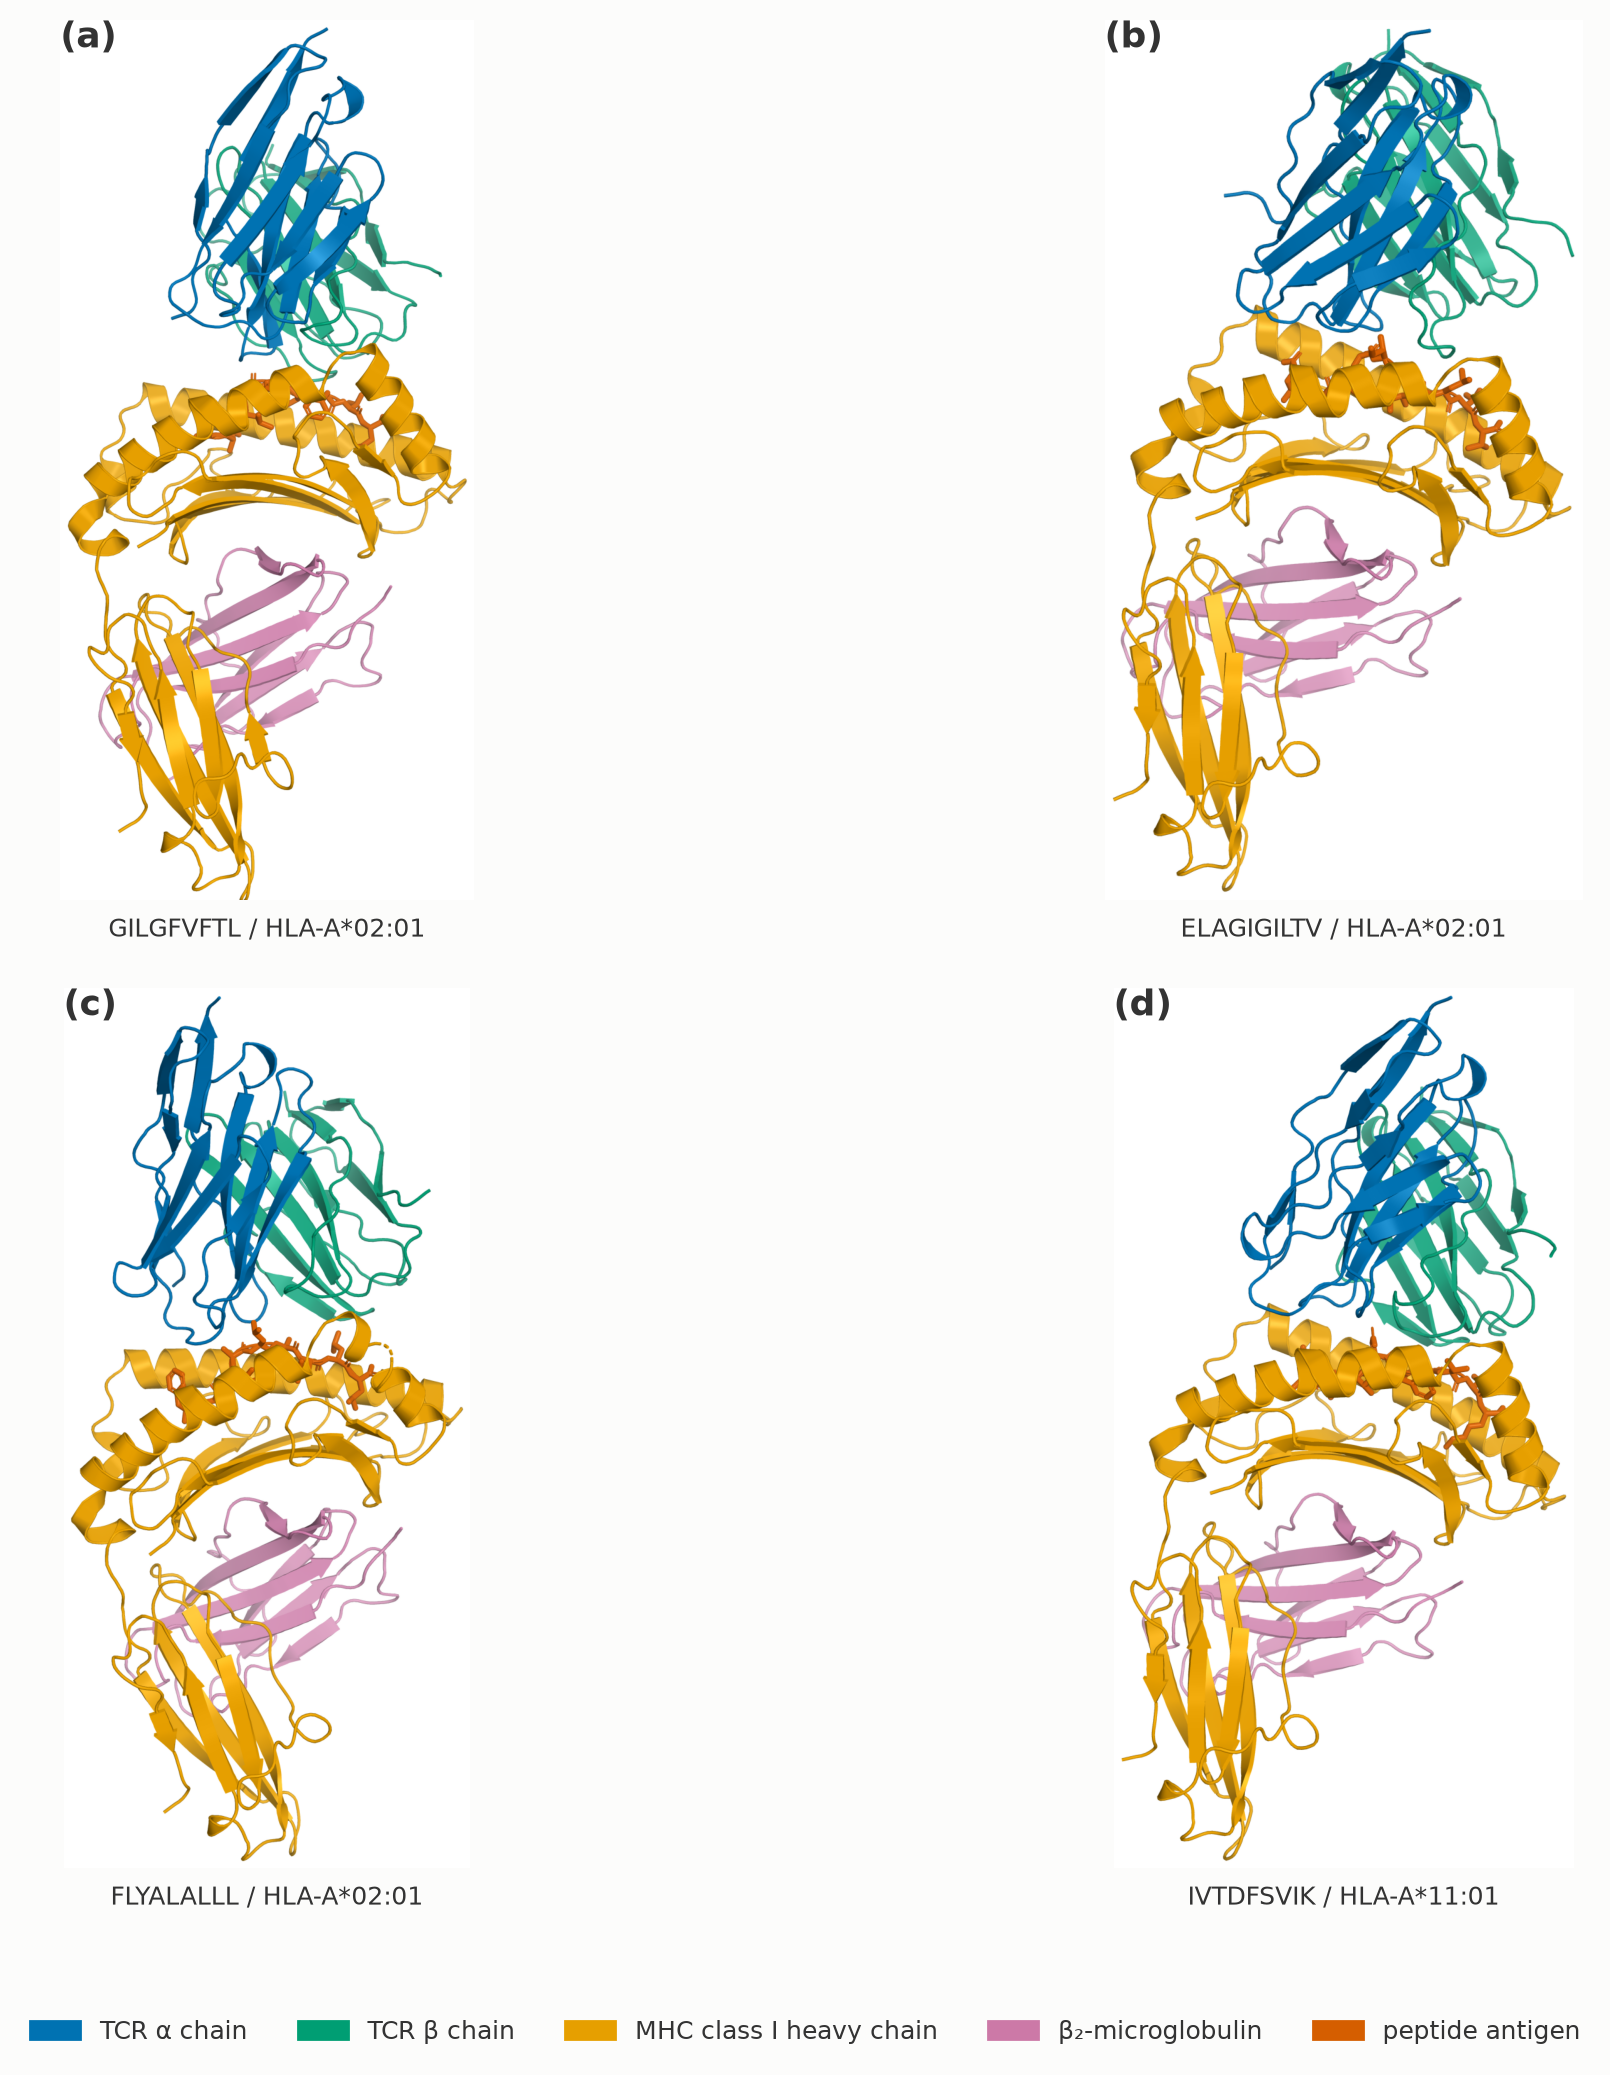
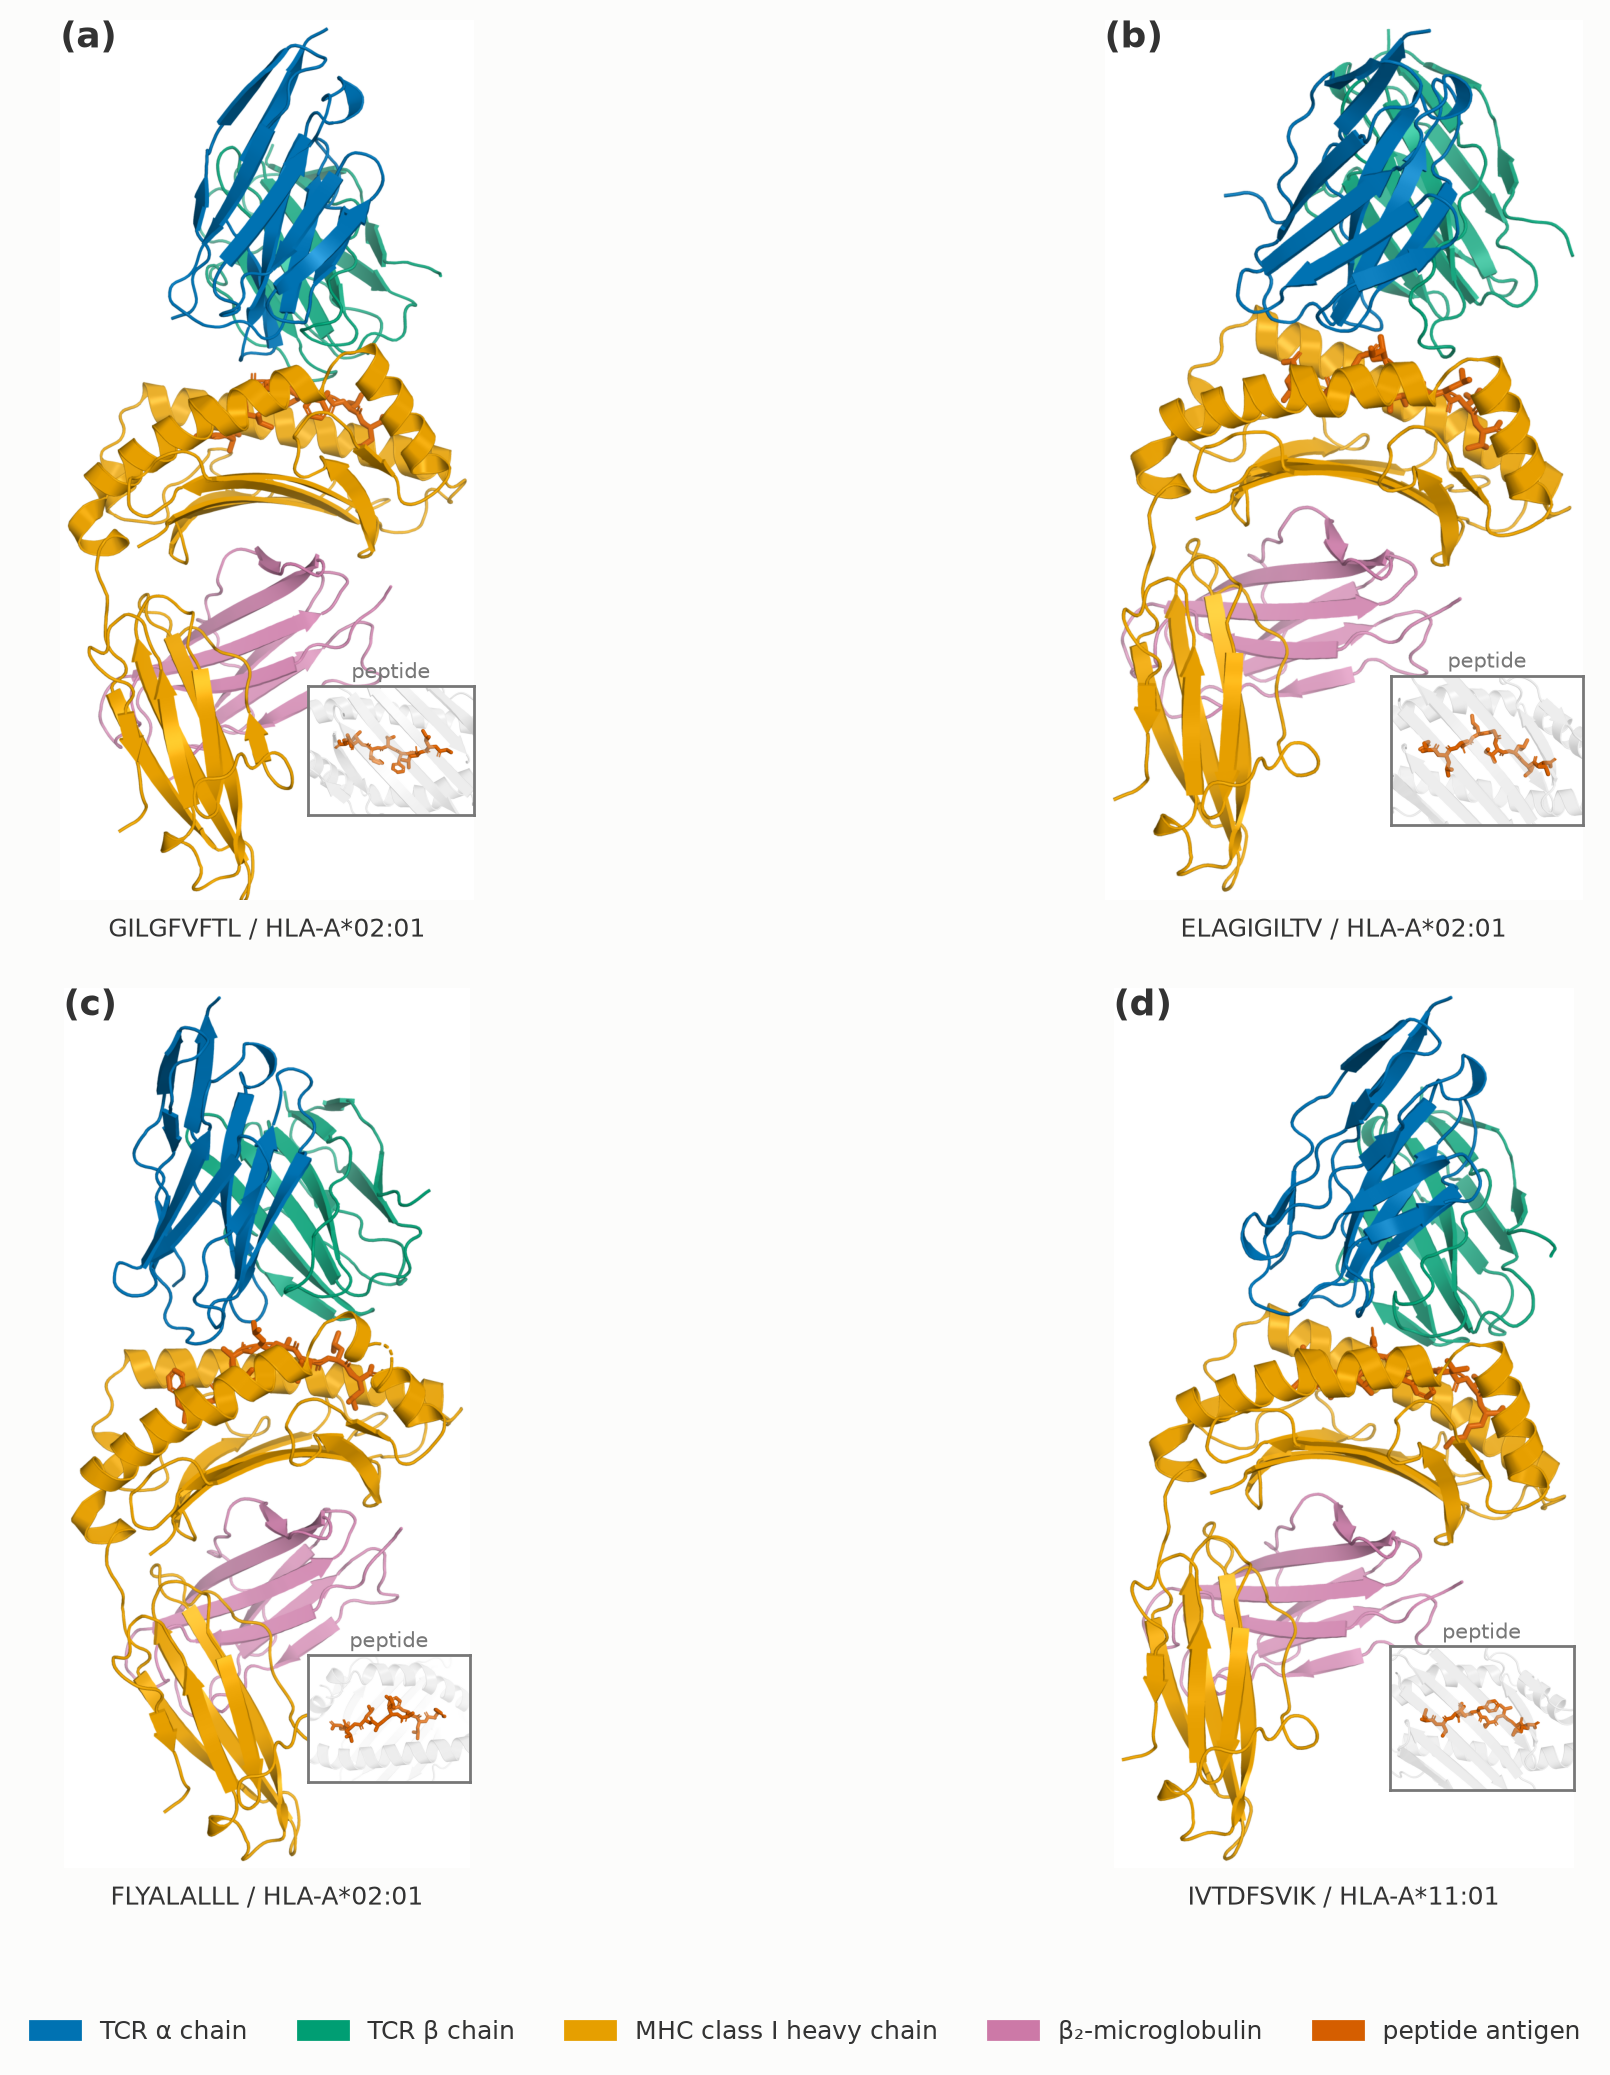
figures: add a peptide-groove zoom inset to each S5 gallery panel
The peptide is small in the whole-complex view, so add a per-panel inset that
zooms on the peptide (orange sticks) in a recessive grey MHC groove
(render_peptide_inset), placed in the lower-right whitespace with a thin border.
Also fix a stale S5 caption (the A*11:01 panel is IVTDFSVIK, not AVFDRKSDAK).

Claude-Session: https://claude.ai/code/session_01HJgW1PG3Bs6vXN74GPWTQd

diff --git a/scripts/render_structure_pymol.py b/scripts/render_structure_pymol.py
@@ -213,6 +213,23 @@ def render_groove(cif, out_png):
     print("rendered groove", out_png)
 
 
+def render_peptide_inset(cif, out_png):
+    """Tight top-down zoom on the peptide for a gallery inset: the MHC groove is a
+    recessive translucent grey so the orange peptide sticks are the clear focus."""
+    _base_scene(cif)
+    cmd.show("cartoon", "m and chain C")
+    cmd.color("grey80", "m and chain C")
+    cmd.set("cartoon_transparency", 0.65, "m and chain C")
+    cmd.show("sticks", "m and chain E")
+    cmd.color(COLORS["E"], "m and chain E")
+    cmd.set("stick_radius", 0.4, "m and chain E")
+    cmd.orient("(m and chain C within 10 of (m and chain E)) or (m and chain E)")
+    cmd.zoom("m and chain E", 3.5)
+    cmd.ray(1150, 900)
+    cmd.png(out_png, dpi=200)
+    print("rendered peptide_inset", out_png)
+
+
 def render_groove_conf(cif, out_png, pmin=50, pmax=95):
     """Top-down groove, peptide sticks coloured by per-residue pLDDT (B-factor),
     each residue labelled one-letter + position. High pLDDT -> blue, low -> red."""
@@ -281,7 +298,8 @@ DISPATCH = {"complex": lambda a: render_complex(a[0], a[1]),
             "groove_conf": lambda a: render_groove_conf(a[0], a[1]),
             "interface": lambda a: render_interface(a[0], a[1]),
             "single": lambda a: render_single(a[0], a[1]),
-            "single_uniform": lambda a: render_single_uniform(a[0], a[1])}
+            "single_uniform": lambda a: render_single_uniform(a[0], a[1]),
+            "peptide_inset": lambda a: render_peptide_inset(a[0], a[1])}
 
 if __name__ == "__main__":
     mode = sys.argv[1]

diff --git a/scripts/plot_supp_gallery.py b/scripts/plot_supp_gallery.py
@@ -54,6 +54,16 @@ def main():
                 fontweight="bold", va="top", ha="left", color=PALETTE["ink"])
         ax.text(0.5, -0.02, caption, transform=ax.transAxes, fontsize=9,
                 ha="center", va="top", color=PALETTE["ink"])
+        # inset: zoom on the peptide in the groove, placed in the lower-right whitespace
+        inset = FIGS / fname.replace(".png", "_inset.png")
+        iax = ax.inset_axes([0.60, 0.02, 0.40, 0.30])
+        iax.imshow(_autocrop(plt.imread(inset)))
+        iax.set_aspect("equal")
+        iax.set_xticks([]); iax.set_yticks([])
+        for sp in iax.spines.values():
+            sp.set_visible(True); sp.set_edgecolor(PALETTE["mute"]); sp.set_linewidth(1.0)
+        iax.text(0.5, 1.02, "peptide", transform=iax.transAxes, fontsize=7.5,
+                 ha="center", va="bottom", color=PALETTE["mute"])
     fig.legend(handles=[Patch(color=c, label=l) for c, l in LEGEND],
                loc="lower center", ncol=5, frameon=False, fontsize=9,
                bbox_to_anchor=(0.5, 0.005))

diff --git a/scripts/render_gallery.py b/scripts/render_gallery.py
@@ -16,7 +16,7 @@ import sys
 from pathlib import Path
 
 sys.path.insert(0, str(Path(__file__).resolve().parent))
-from render_structure_pymol import render_single_uniform
+from render_structure_pymol import render_single_uniform, render_peptide_inset
 
 ROOT = Path(__file__).resolve().parent.parent
 FIGS = ROOT / "paper/figures"
@@ -74,6 +74,7 @@ def main():
             continue
         cid, cif, metric = sel
         render_single_uniform(cif, str(FIGS / out))
+        render_peptide_inset(cif, str(FIGS / out.replace(".png", "_inset.png")))
         print(f"{letter:5} {epitope:12} {cid:14} {metric:11.3f}  {out}")
 
 

diff --git a/paper/supplementary/supplementary.md b/paper/supplementary/supplementary.md
@@ -44,9 +44,11 @@ them. The retrieval signal is not sample noise. Source:
 ### Figure S5. Gallery of predicted TCR-pMHC complexes across epitopes.
 `figS5_complex_gallery.pdf`. Four predicted complexes in the same canonical TCR-up
 orientation, three A*02:01 epitopes (GILGFVFTL, ELAGIGILTV, FLYALALLL) and one
-A*11:01 epitope (AVFDRKSDAK), coloured by chain. The pipeline produces consistent
-well-folded complexes across epitopes and both alleles, not a single cherry-picked
-fold. Renders from `scripts/render_structure_pymol.py`.
+A*11:01 epitope (IVTDFSVIK), coloured by chain. Each panel carries an inset that
+zooms on the peptide (orange sticks) in the MHC groove, shown as a recessive grey
+cartoon. The pipeline produces consistent well-folded complexes across epitopes and
+both alleles, not a single cherry-picked fold. Renders and per-epitope selection
+from `scripts/render_gallery.py`.
 
 ## Supplementary tables
 